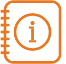
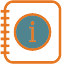
image

Changed region(s): [[0.2424, 0.2188, 0.7576, 0.7812]]

diff --git a/TechComm/semester/2021-05-SummerI/homepage.html b/TechComm/semester/2021-05-SummerI/homepage.html
@@ -54,7 +54,7 @@
   <p style="padding-top: 9px;border-bottom: 1px solid #861f41;padding-bottom: 12px;">
 <a class="btn btn-home" role="button" href="https://canvas.vt.edu/courses/132039/pages/week-01-instructions-may-24-28-course-intro" target="_parent"><span style="font-size: 27px;" class="alignleft">📃</span>This Week’s<br />Instructions</a>
 <!-- a class="btn btn-home" role="button" href="https://canvas.vt.edu/courses/132039/pages/week-13-instructions-designing-your-recommendation" target="_parent">Last Week’s<br />Instructions</a -->
-<a class="btn btn-home" role="button" href="https://tracigardner.github.io/TechComm/semester/2021-05-SummerI/VizGuide2TW-Su21.pdf" target="_blank"><span style="font-size: 27px;" class="alignleft"><img src="https://tracigardner.github.io/TechComm/-images/noun_Information_76373-30px.png" style="height: 33px;width: 33px;" alt="" ></span>Short<br />Guide</a>
+<a class="btn btn-home" role="button" href="https://tracigardner.github.io/TechComm/semester/2021-05-SummerI/VizGuide2TW-Su21.pdf" target="_blank"><span style="font-size: 27px;" class="alignleft"><img src="https://tracigardner.github.io/TechComm/-images/noun_Information_76373.png" style="height: 33px;width: 33px;" alt="" ></span>Short<br />Guide</a>
 <a class="btn btn-home" role="button" href="https://docs.google.com/document/d/1-MeXdKL8mGtBq6HXArIoH_iWfVrOyyR4m-JMLsYVOFw/edit?usp=sharing" target="_blank"><span style="font-size: 27px;" class="alignleft">📖</span>Course<br />Manual</a> 
 <a class="btn btn-home" role="button" href="https://canvas.vt.edu/courses/132039/modules" target="_parent"><span style="font-size: 27px;" class="alignleft">📅</span>Weekly<br />Modules</a> 
 <a class="btn btn-home" role="button" href="https://canvas.vt.edu/courses/132039/pages/contact-traci" target="_parent"><span style="font-size: 27px;" class="alignleft">📧</span>Contact<br />Traci</a> 
